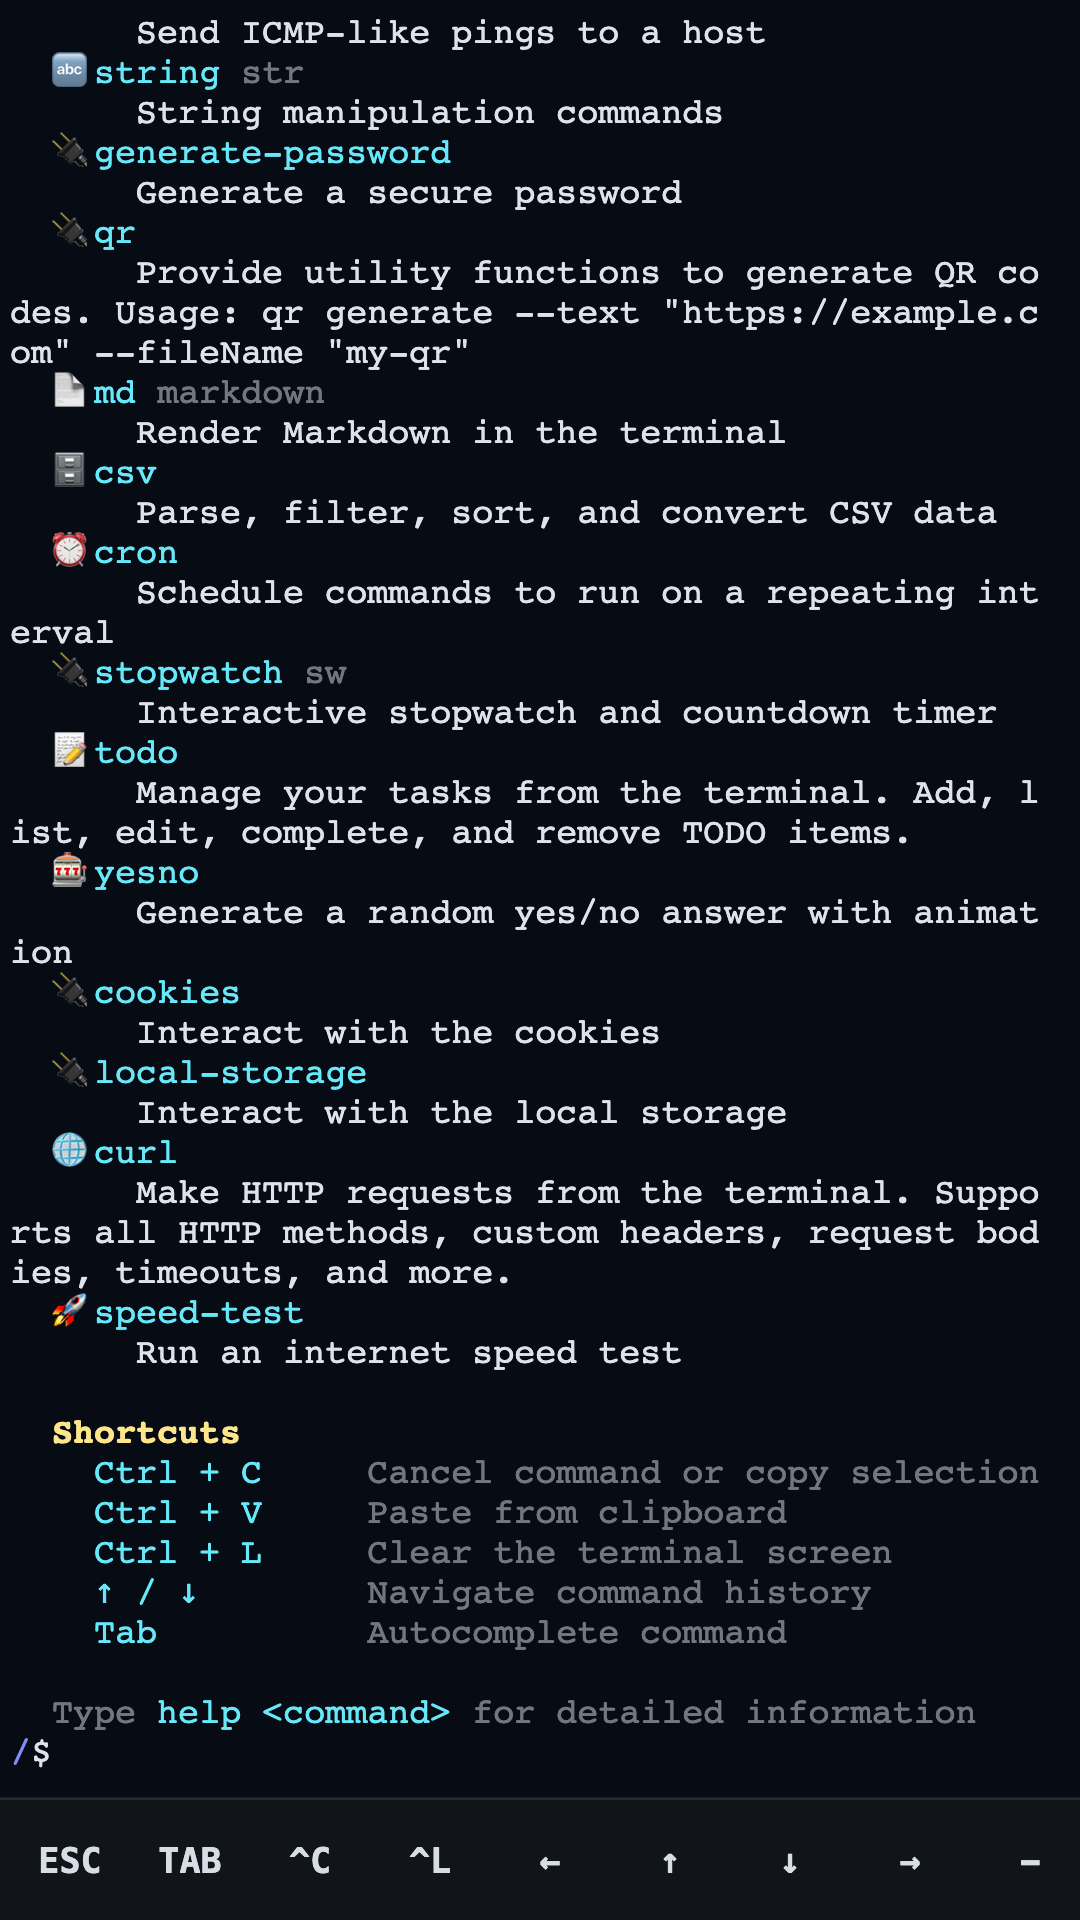
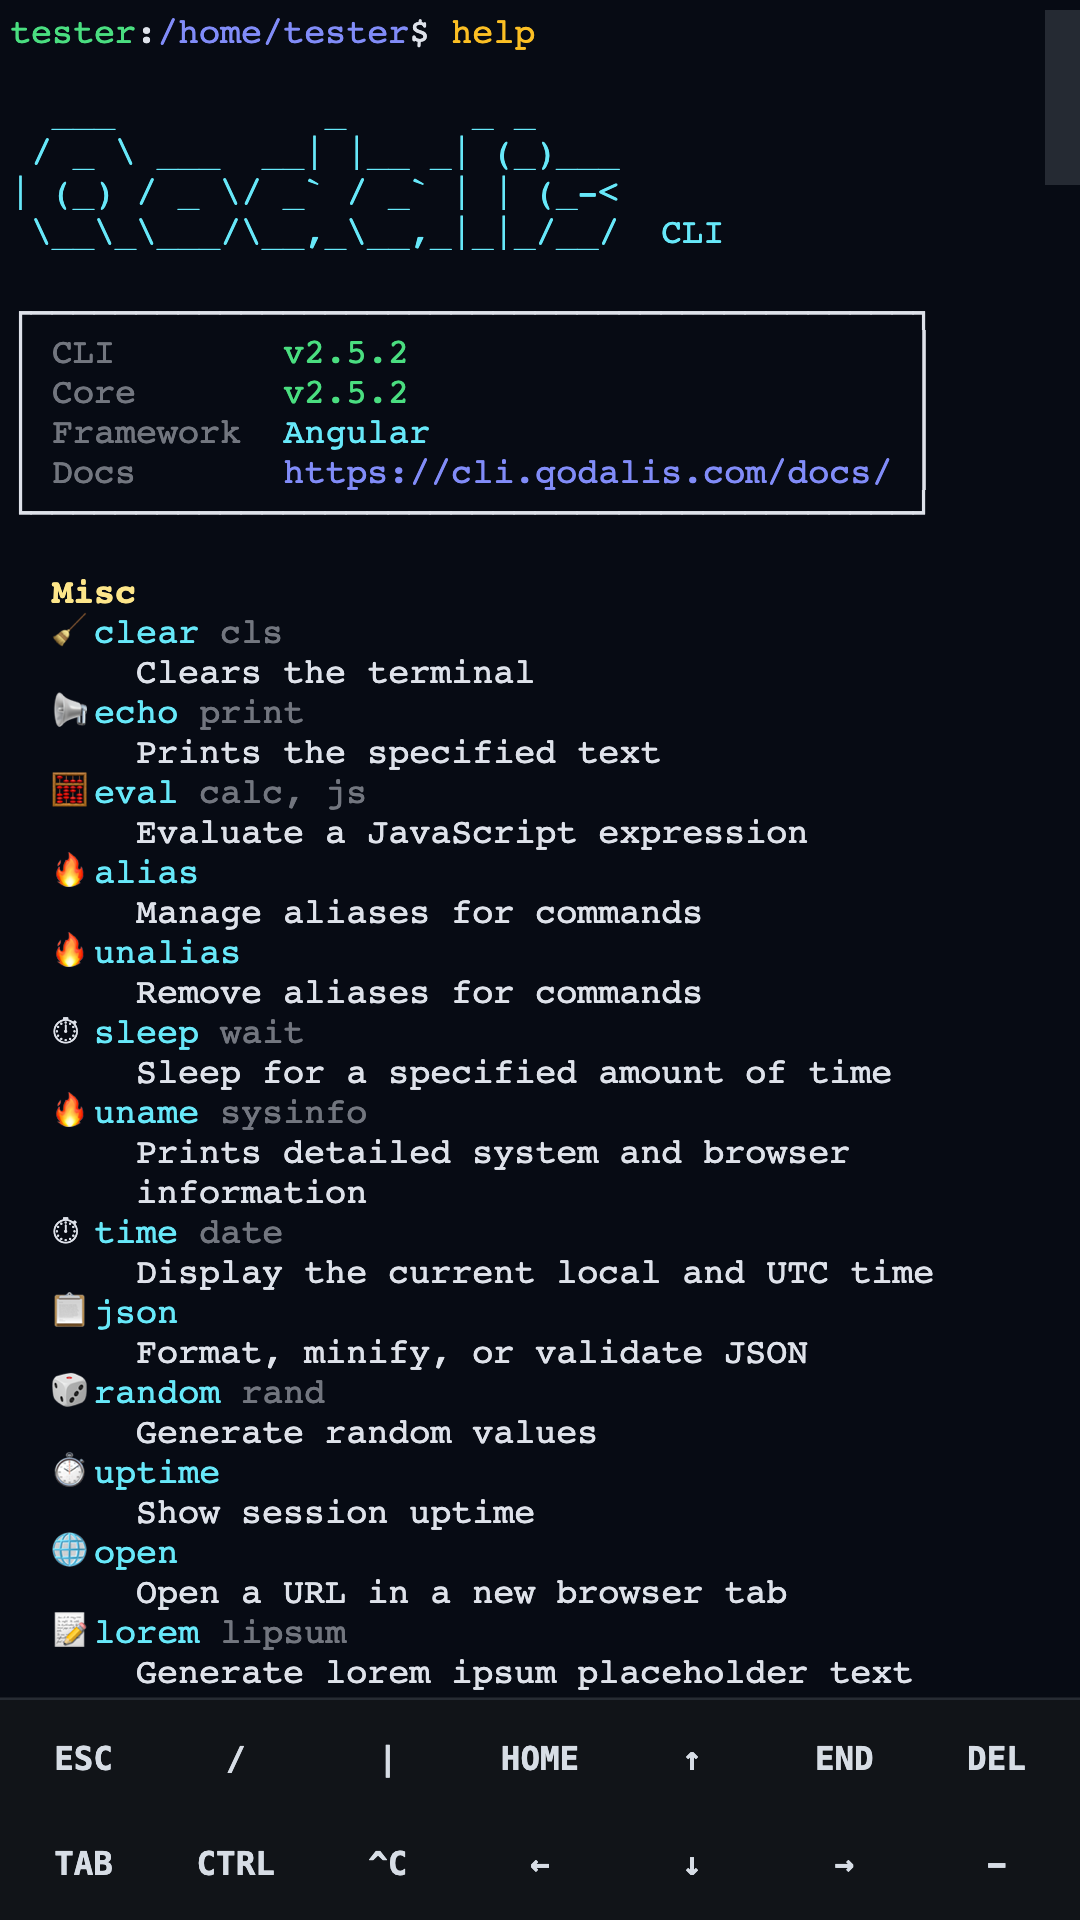
Store screenshots: 8 phone shots (help, tools, 2048, nano, charts and Markdown, pkg browse, themes and to-dos, German) plus 7- and 10-inch tablet shots

diff --git a/e2e/store.screenshots.ts b/e2e/store.screenshots.ts
@@ -1,59 +1,203 @@
 import { readFileSync } from 'node:fs';
 
-import { expect, test } from '@playwright/test';
+import { expect, Page, test } from '@playwright/test';
 
-import { openTerminal, run, tapKey, terminalText } from './terminal';
+import { focusTerminal, openTerminal, run, tapKey, terminalLines, terminalText } from './terminal';
 
 /**
  * Writes the Google Play listing images (`npm run screenshots`) into
  * fastlane/metadata/android/en-US/images:
- *   phoneScreenshots/*.png  1080x1920 phone screenshots (Play allows at most 2:1)
- *   featureGraphic.png      1024x500 feature graphic
+ *   phoneScreenshots/*.png      1080x1920 phone screenshots (Play allows at most 2:1)
+ *   sevenInchScreenshots/*.png  1200x1920 7-inch tablet screenshots
+ *   tenInchScreenshots/*.png    2560x1600 10-inch tablet screenshots (landscape)
+ *   featureGraphic.png          1024x500 feature graphic
  * and copies the phone screenshots into public/screenshots for the web manifest.
+ * pkg browse searches the npm registry, so the run needs the network.
  */
-test.use({ viewport: { width: 432, height: 768 }, deviceScaleFactor: 2.5, isMobile: true, hasTouch: true });
 
 const IMAGES = 'fastlane/metadata/android/en-US/images';
 
-const shots: { name: string; script: (page: import('@playwright/test').Page) => Promise<void> }[] = [
+const DEVICES = [
+  { folder: 'phoneScreenshots', viewport: { width: 432, height: 768 }, deviceScaleFactor: 2.5, copyToPublic: true },
+  { folder: 'sevenInchScreenshots', viewport: { width: 600, height: 960 }, deviceScaleFactor: 2, copyToPublic: false },
+  { folder: 'tenInchScreenshots', viewport: { width: 1280, height: 800 }, deviceScaleFactor: 2, copyToPublic: false },
+];
+
+/** Clears the screen without adding to the history (Ctrl+L). */
+async function clearScreen(page: Page): Promise<void> {
+  await focusTerminal(page);
+  await page.keyboard.press('Control+l');
+  // Wait for the redraw, or it can wipe the next command's output.
+  await expect.poll(async () => (await visibleRows(page)).filter((r) => r.trim()).length).toBe(1);
+}
+
+/** The rows on screen. */
+async function visibleRows(page: Page): Promise<string[]> {
+  return page.evaluate(() => {
+    const terminal = (window as any).qodalisCli.getTerminal();
+    const buffer = terminal.buffer.active;
+    const rows: string[] = [];
+    for (let i = 0; i < terminal.rows; i++) {
+      rows.push(buffer.getLine(buffer.viewportY + i)?.translateToString(true) ?? '');
+    }
+    return rows;
+  });
+}
+
+/** Scrolls the last line matching `pattern` to the top, for output longer than the screen. */
+async function scrollToLine(page: Page, pattern: RegExp): Promise<void> {
+  await page.evaluate(
+    ([source, flags]) => {
+      const terminal = (window as any).qodalisCli.getTerminal();
+      const buffer = terminal.buffer.active;
+      const regex = new RegExp(source, flags);
+      for (let i = buffer.length - 1; i >= 0; i--) {
+        if (regex.test(buffer.getLine(i)?.translateToString(true) ?? '')) {
+          terminal.scrollToLine(i);
+          return;
+        }
+      }
+    },
+    [pattern.source, pattern.flags],
+  );
+}
+
+/** Scrolls the line where `command` was typed to the top. */
+async function scrollToCommand(page: Page, command: string): Promise<void> {
+  await scrollToLine(page, new RegExp(`\\$ ${command}$`));
+}
+
+/**
+ * One screenshot per strength of the app, in listing order; `locale` sets the browser (device)
+ * language and `expect` lists output the screenshot must show. Commands stay on one row at phone
+ * width: typing a command that wraps onto more rows erases as many rows of output above it
+ * (a CLI line-editor bug), so longer data goes into files before the screen is cleared.
+ */
+const shots: { name: string; locale?: string; expect?: RegExp[]; script: (page: Page) => Promise<void> }[] = [
   {
-    name: 'phone-1',
+    name: 'overview',
+    expect: [/CLI\s+v\d/, /Clears the terminal/],
     script: async (page) => {
+      await clearScreen(page);
       await run(page, 'help');
+      await scrollToCommand(page, 'help');
     },
   },
   {
-    name: 'phone-2',
+    name: 'tools',
+    expect: [/^[0-9a-f]{8}-[0-9a-f]{4}-/m, /Generated Password/, /^29 30/m, /qr-code\.png/],
     script: async (page) => {
-      await tapKey(page, 'Control');
-      await page.keyboard.type('l');
-      await run(page, 'guid new');
-      await run(page, 'string upper hello from my phone');
+      await clearScreen(page);
+      await run(page, 'string upper hello world');
       await run(page, 'base64 encode qodalis');
       await run(page, 'hash sha256 qodalis');
+      await run(page, 'guid new');
       await run(page, 'generate-password');
       await run(page, 'cal');
+      await run(page, 'qr generate --text=qodalis');
     },
   },
   {
-    name: 'phone-3',
+    name: 'game',
+    expect: [/Score:/],
     script: async (page) => {
       await run(page, '2048', { wait: false });
       await expect.poll(() => terminalText(page)).toMatch(/score/i);
-      for (const key of ['Left', 'Up', 'Right', 'Up', 'Left', 'Down', 'Left', 'Up']) {
+      for (const key of ['Left', 'Up', 'Right', 'Up', 'Left', 'Down', 'Left', 'Up', 'Right', 'Up', 'Left', 'Up']) {
         await tapKey(page, key);
       }
     },
   },
+  {
+    name: 'nano',
+    expect: [/Sunset at Miradouro/, /\^X Exit/],
+    script: async (page) => {
+      await run(page, 'nano trip.md', { wait: false });
+      await expect.poll(() => terminalText(page)).toMatch(/\^X Exit/);
+      await page.keyboard.type(
+        '# Weekend in Lisbon\n\n## Packing\n- passport\n- charger\n- sunscreen\n\n' +
+          '## Ideas\n- Tram 28 at sunrise\n- Pasteis de Belem\n- Sunset at Miradouro\n',
+      );
+    },
+  },
+  {
+    name: 'charts',
+    expect: [/Small steps every day/, /Fri \|/, /^\s+1\s+2\s+3/m],
+    script: async (page) => {
+      // Wrapped lines erase the prompts above them, which run() counts: these do not wait for one.
+      await run(page, 'echo "Mon:6\\nTue:9\\nWed:7\\nThu:11\\nFri:14" > week.txt', { wait: false });
+      await page.waitForTimeout(400);
+      await run(page, 'echo "3\\n5\\n4\\n8\\n6\\n9\\n12\\n10\\n14" > steps.txt', { wait: false });
+      await page.waitForTimeout(400);
+      await run(page, 'echo "# Weekly goals\\n- **Run** three times\\n- *Read* one book\\n- Small steps *every* day" > goals.md', { wait: false });
+      await page.waitForTimeout(400);
+      await clearScreen(page);
+      await run(page, 'cat week.txt | chart bar');
+      await run(page, 'cat steps.txt | chart line');
+      await run(page, 'cat goals.md | md');
+    },
+  },
+  {
+    name: 'packages',
+    expect: [/Available packages/],
+    script: async (page) => {
+      await clearScreen(page);
+      // The registry search can take a while.
+      await run(page, 'pkg browse', { wait: false });
+      await expect
+        .poll(() => terminalLines(page), { timeout: 40_000 })
+        .toContainEqual(expect.stringMatching(/Available packages/));
+      await scrollToCommand(page, 'pkg browse');
+    },
+  },
+  {
+    name: 'theme',
+    expect: [/brightWhite/],
+    script: async (page) => {
+      await run(page, 'theme apply tokyoNight');
+      await run(page, 'todo add Buy concert tickets');
+      await run(page, 'todo add Call the bank');
+      await run(page, 'todo add Water the plants');
+      await clearScreen(page);
+      await run(page, 'todo ls');
+      await run(page, 'theme current');
+    },
+  },
+  {
+    name: 'language',
+    locale: 'de-DE',
+    expect: [/spielen/, /kodieren/],
+    script: async (page) => {
+      await clearScreen(page);
+      await run(page, 'help');
+      // Encoding, charts and games, with their German descriptions.
+      await scrollToLine(page, /^\s*Encoding$/);
+    },
+  },
 ];
 
-for (const shot of shots) {
-  test(shot.name, async ({ page }) => {
-    await openTerminal(page);
-    await shot.script(page);
-    await page.waitForTimeout(600);
-    await page.screenshot({ path: `${IMAGES}/phoneScreenshots/${shot.name.replace('phone-', '')}.png` });
-    await page.screenshot({ path: `public/screenshots/${shot.name}.png` });
+for (const device of DEVICES) {
+  test.describe(device.folder, () => {
+    test.describe.configure({ retries: 3 });
+    test.use({ viewport: device.viewport, deviceScaleFactor: device.deviceScaleFactor, isMobile: true, hasTouch: true });
+
+    shots.forEach((shot, index) => {
+      test.describe(shot.name, () => {
+        if (shot.locale) test.use({ locale: shot.locale });
+
+        test(`${index + 1}`, async ({ page }) => {
+          test.setTimeout(90_000);
+          await openTerminal(page);
+          await shot.script(page);
+          await page.waitForTimeout(600);
+          // Guards against lost output (see the note above `shots`).
+          const screen = (await visibleRows(page)).join('\n');
+          for (const pattern of shot.expect ?? []) expect(screen).toMatch(pattern);
+          await page.screenshot({ path: `${IMAGES}/${device.folder}/${index + 1}.png` });
+          if (device.copyToPublic) await page.screenshot({ path: `public/screenshots/phone-${index + 1}.png` });
+        });
+      });
+    });
   });
 }
 
